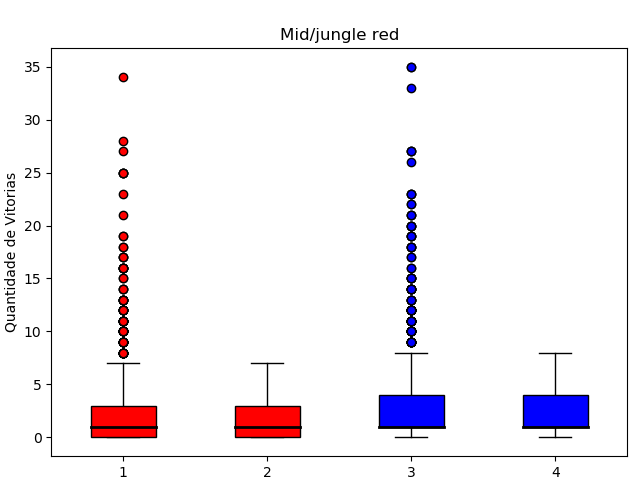
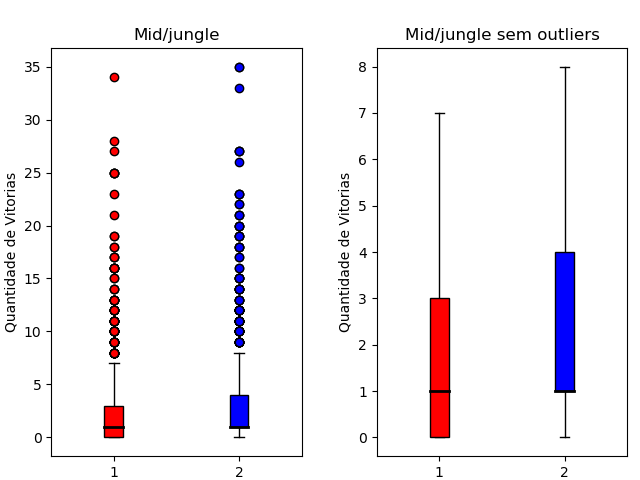
qualquer coisa

diff --git a/Graphics/box_chart.py b/Graphics/box_chart.py
@@ -8,17 +8,19 @@ def mathBoxPlot(listValues,listValues2, titleFig="Default", titleChart="simple",
     blue_diamond = dict(markerfacecolor=color2, marker='D')
     red_diamond = dict(markerfacecolor=color1, marker='D')
     
-    dataRed = np.array([listValues,listValues,listValues2,listValues2])
-    fig, axs = plt.subplots()
+    dataRed = np.array([listValues,listValues2])
+    dataBlue = np.array([listValues,listValues2])
+    ind = np.arange(2)
+    fig, axs = plt.subplots(1,2)
     fig.canvas.set_window_title(titleFig)
-
-    bp = axs.boxplot(dataRed,patch_artist=True)
-    bp['fliers'][1].set_data([0,0])
-    bp['fliers'][3].set_data([0,0])
-    axs.set_title(titleChart)
-    axs.set_ylabel(typeData+' de '+ dataName)
-    colors = [color1,color1,color2,color2]
-    colors1 = [color1,color2]
+    bp = axs[0].boxplot(dataRed,patch_artist=True)
+    plt.xticks(ind, ('Time Azul', 'Time Vermelho'))
+    bp1 = axs[1].boxplot(dataBlue,0, '',patch_artist=True)
+    axs[0].set_title(titleChart)
+    axs[0].set_ylabel(typeData+' de '+ dataName)
+    axs[1].set_title(titleChart+ ' sem outliers')
+    axs[1].set_ylabel(typeData+' de '+ dataName)
+    colors = [color1,color2]
 
 
     for patch, color in zip(bp['boxes'], colors):
@@ -27,9 +29,19 @@ def mathBoxPlot(listValues,listValues2, titleFig="Default", titleChart="simple",
     for median in bp['medians']:
         median.set(color='black', linewidth=2)
     n=0
-    print(bp)
     for flier in bp['fliers']:
         flier.set(markerfacecolor=colors[n])
+        print(flier.get_data())
+        n+=1
+    for patch, color in zip(bp1['boxes'], colors):
+        patch.set_facecolor(color)
+
+    for median in bp1['medians']:
+        median.set(color='black', linewidth=2)
+    n=0
+    for flier in bp1['fliers']:
+        flier.set(markerfacecolor=colors[n])
+        print(flier.get_data())
         n+=1
         
 

diff --git a/Graphics/data_box_plot_duplas.py b/Graphics/data_box_plot_duplas.py
@@ -73,14 +73,14 @@ dfToList_ad_s_b = df_support_ad_carry_b[victory_column].tolist()
 f = 'vitorias_absolutas_das_duplas'
 
 mathBoxPlot(dfToList_t_j_r,dfToList_t_j_b, 'top_jungler_red_chart',
-            'Top/jungle red', folder=f)
+            'Top/jungle', folder=f)
 
 mathBoxPlot(dfToList_m_j_r,dfToList_m_j_b, 'mid_jungler_red_chart',
-            'Mid/jungle red', folder=f)
+            'Mid/jungle', folder=f)
 
 mathBoxPlot(dfToList_s_j_r,dfToList_s_j_b, 'support_jungler_red_chart',
-            'Support/jungle red', folder=f)
+            'Support/jungle', folder=f)
 
 mathBoxPlot(dfToList_ad_s_r,dfToList_ad_s_b, 'ad_carry_support_red_chart',
-            'Adc carry/support red', folder=f)
+            'Adc carry/support', folder=f)
 
